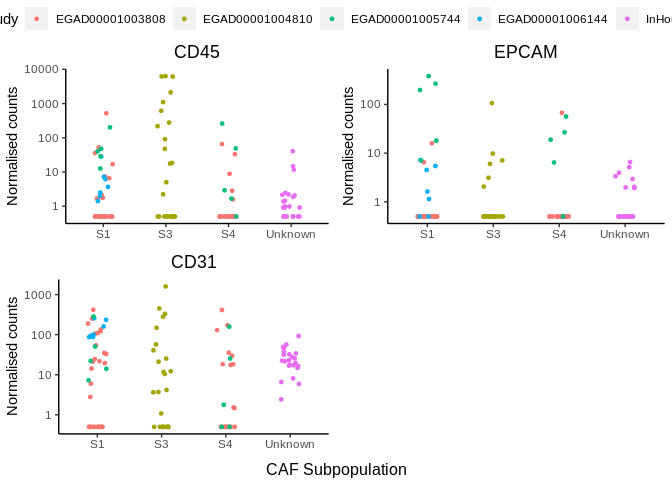
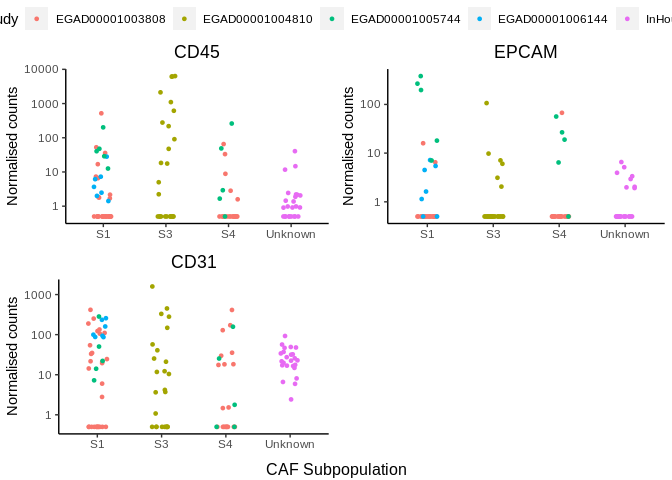
commit work from 31/08/2022 - change vst blind to false, look at effect on PCA, eigencorplot

diff --git a/caf_rnaseq_combined_analysis.md b/caf_rnaseq_combined_analysis.md
@@ -1,7 +1,7 @@
 CAF Subpopulation Analysis
 ================
 Kevin Ryan
-2022-08-29 16:39:11
+2022-08-31 11:17:48
 
 - <a href="#introduction" id="toc-introduction">Introduction</a>
 - <a href="#analysis" id="toc-analysis">Analysis</a>
@@ -236,15 +236,14 @@ coldata <- data.frame(files, names=rownames(metadata), Study = metadata$Study,
 #tx2gene <- read_tsv("/home/kevin/Documents/PhD/references/tx2gene_gencode_v31.txt")
 
 # tx2gene but using the hgnc symbol instead of ensembl gene id version
-mart <- useMart(biomart = "ensembl", dataset = "hsapiens_gene_ensembl", host="https://www.ensembl.org")
+mart <- useMart(biomart = "ensembl", dataset = "hsapiens_gene_ensembl", #host="https://www.ensembl.org")
+                host="uswest.ensembl.org")
 ```
 
-    ## Ensembl site unresponsive, trying useast mirror
-
-    ## Ensembl site unresponsive, trying uswest mirror
+    ## Warning: Ensembl will soon enforce the use of https.
+    ## Ensure the 'host' argument includes "https://"
 
 ``` r
-                #host="uswest.ensembl.org")
 tx2gene <- getBM(attributes = c("ensembl_transcript_id_version", "hgnc_symbol"), mart = mart, useCache = FALSE)
 
 # salmon was used in alignment mode so there is no salmon index, therefore there is no checksum to import the metadata 
@@ -396,9 +395,10 @@ meanSdPlot(assay(ntd))
 ![](caf_rnaseq_combined_analysis_files/figure-gfm/Mean%20variance%20relationship%20using%20log(x+1)%20transformation-1.png)<!-- -->
 
 ``` r
-# here, blind is FALSE as we don't want it to be blind to experimental design 
+# blind is FALSE when we don't want it to be blind to experimental design 
 # recommended when transforming data for downstream analysis which will use the design information
-vsd <- vst(dds, blind = FALSE)
+# blind TRUE is recommended when transforming for QA purposes
+vsd <- vst(dds, blind = TRUE)
 ```
 
     ## using 'avgTxLength' from assays(dds), correcting for library size
@@ -950,8 +950,8 @@ annotate_de_genes <- function(df, filter_by){
     df$gene_symbol <- rownames(df)
     colnames(df)[6] <- filter_by_string
     #print(df)
-    mart <- useMart(biomart = "ensembl", dataset = "hsapiens_gene_ensembl",  host="https://www.ensembl.org")
-                    #host="uswest.ensembl.org")
+    mart <- useMart(biomart = "ensembl", dataset = "hsapiens_gene_ensembl",  #host="https://www.ensembl.org")
+                    host="uswest.ensembl.org")
     info <- getBM(attributes=c("hgnc_symbol",
                                "ensembl_gene_id_version",
                                "chromosome_name",
@@ -1125,14 +1125,24 @@ s1_filtered <- dfs_filtered[[1]]
 s1_filtered_annotations <- annotate_de_genes(s1_filtered, filter_by = "hgnc_symbol")
 ```
 
-    ## Ensembl site unresponsive, trying uswest mirror
+    ## Warning: Ensembl will soon enforce the use of https.
+    ## Ensure the 'host' argument includes "https://"
 
 ``` r
 s3_filtered <- dfs_filtered[[2]]
 s3_filtered_annotations <- annotate_de_genes(s3_filtered, filter_by = "hgnc_symbol")
+```
+
+    ## Warning: Ensembl will soon enforce the use of https.
+    ## Ensure the 'host' argument includes "https://"
+
+``` r
 s4_filtered <- dfs_filtered[[3]]
 s4_filtered_annotations <- annotate_de_genes(s4_filtered, filter_by = "hgnc_symbol")
 ```
+
+    ## Warning: Ensembl will soon enforce the use of https.
+    ## Ensure the 'host' argument includes "https://"
 
 #### Without inhouse data or study EGAD00001006144
 
@@ -1249,11 +1259,26 @@ dfs_filtered <- filter_dfs_antijoin_rownames(dfs_to_filter)
 names(dfs_filtered) <- c("S1", "S3", "S4")
 s1_filtered <- dfs_filtered[[1]]
 s1_filtered_annotations <- annotate_de_genes(s1_filtered, filter_by = "hgnc_symbol")
+```
+
+    ## Warning: Ensembl will soon enforce the use of https.
+    ## Ensure the 'host' argument includes "https://"
+
+``` r
 s3_filtered <- dfs_filtered[[2]]
 s3_filtered_annotations <- annotate_de_genes(s3_filtered, filter_by = "hgnc_symbol")
+```
+
+    ## Warning: Ensembl will soon enforce the use of https.
+    ## Ensure the 'host' argument includes "https://"
+
+``` r
 s4_filtered <- dfs_filtered[[3]]
 s4_filtered_annotations <- annotate_de_genes(s4_filtered, filter_by = "hgnc_symbol")
 ```
+
+    ## Warning: Ensembl will soon enforce the use of https.
+    ## Ensure the 'host' argument includes "https://"
 
 ``` r
 s1_gs <- s1_filtered_annotations$Gene
@@ -1266,13 +1291,8 @@ names(genesets) <- c("S1", "S3", "S4")
 ### Over-representation analysis
 
 ``` r
-mart <- useMart(biomart = "ensembl", dataset = "hsapiens_gene_ensembl", host="www.ensembl.org") #host = "https://uswest.ensembl.org")
-```
-
-    ## Warning: Ensembl will soon enforce the use of https.
-    ## Ensure the 'host' argument includes "https://"
-
-``` r
+mart <- useMart(biomart = "ensembl", dataset = "hsapiens_gene_ensembl", host = "https://uswest.ensembl.org")
+                # host="www.ensembl.org")
 background_genes <- getBM(attributes = "entrezgene_id", 
                           #filters = "ensembl_gene_id_version", 
                           filters = "hgnc_symbol",
